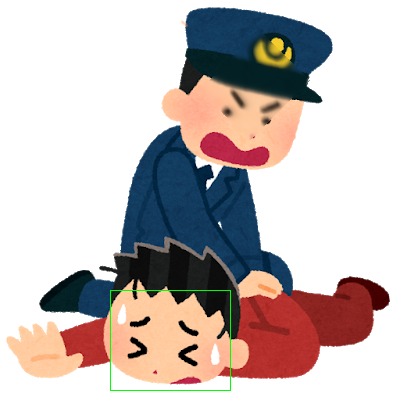
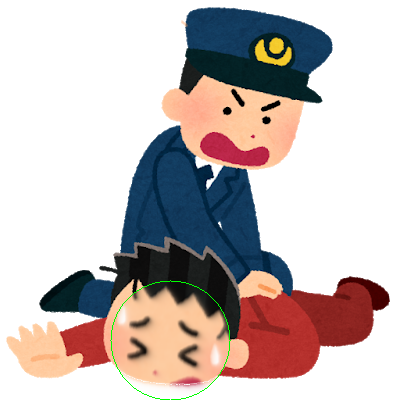
kirinuki

diff --git a/class_three/3rd_class/bokasi_circle.py b/class_three/3rd_class/bokasi_circle.py
@@ -28,4 +28,4 @@ image[np.where((image[0:height,0:width,3] == 0))] = [255,255,255,255]
 image = bokasi(image,height,width)
 cv2.imshow('bokasi',image)
 cv2.waitKey()
-cv2.imwrite('bokasi.png',image)
+cv2.imwrite('circle_bokasi.png',image)
